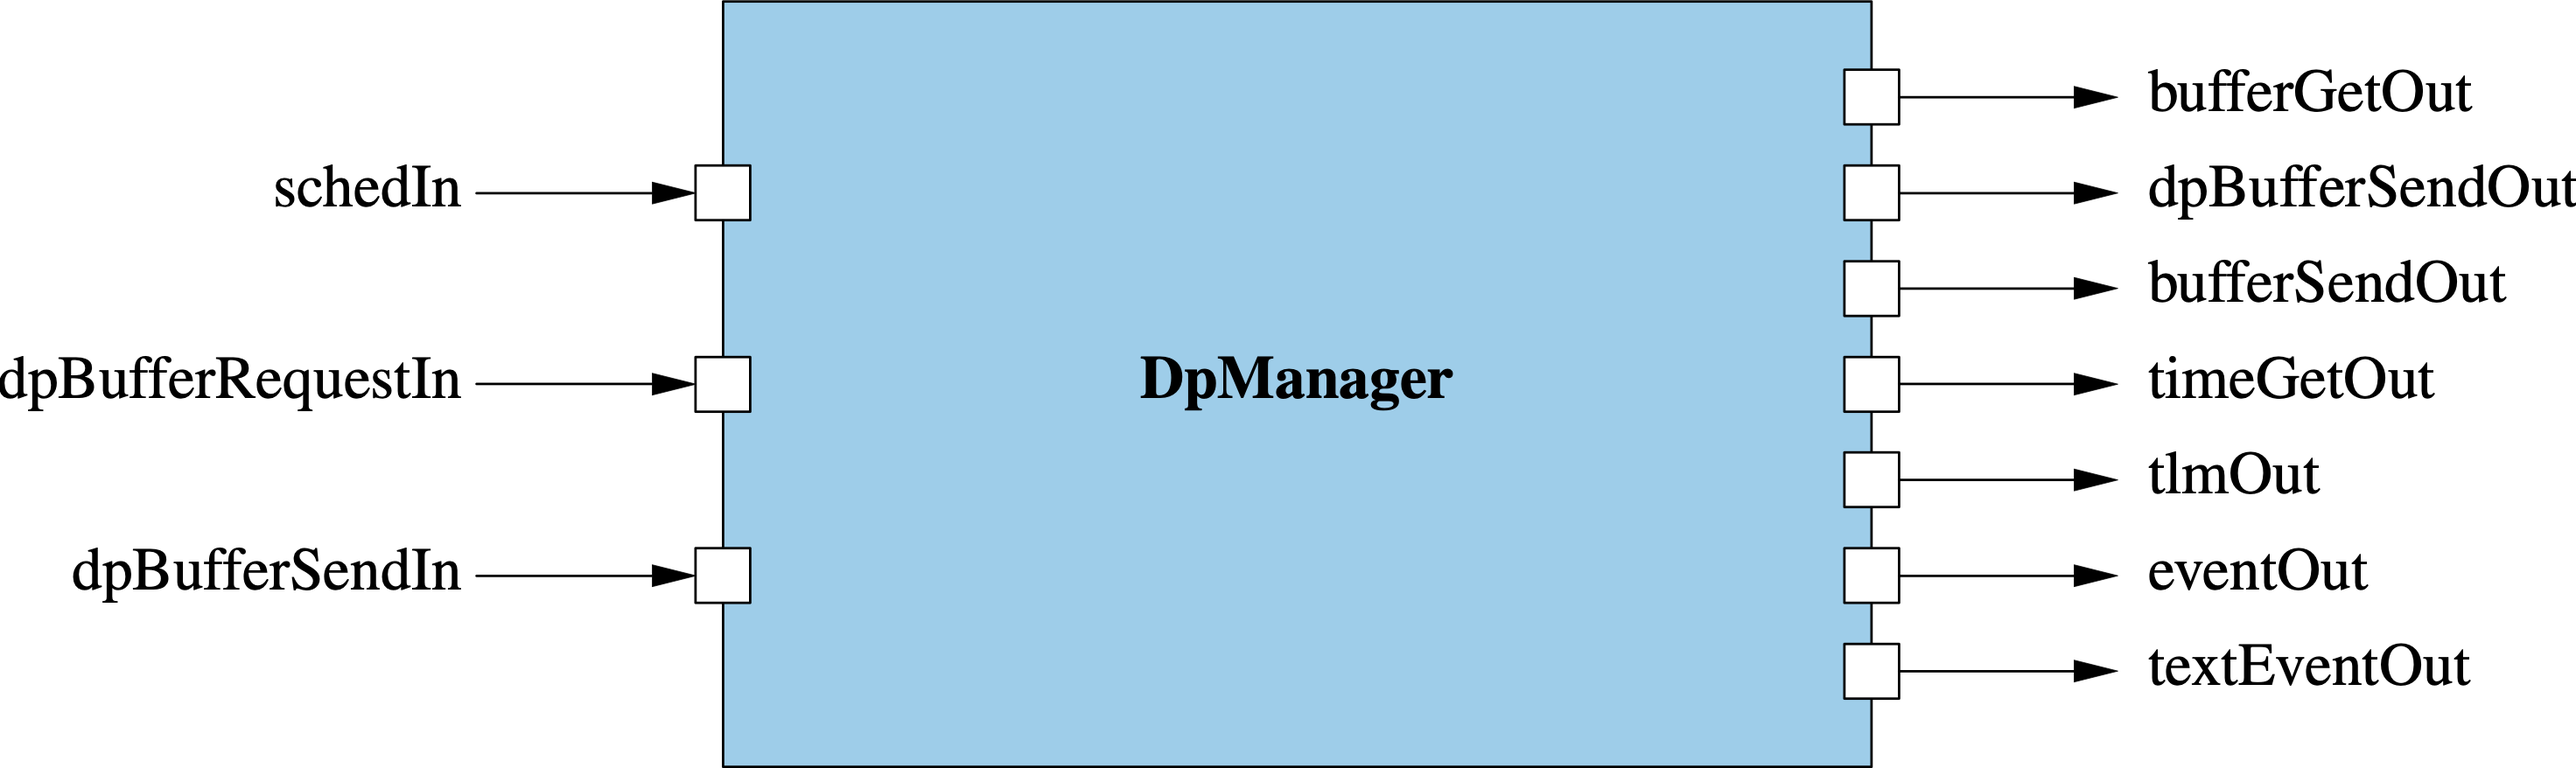
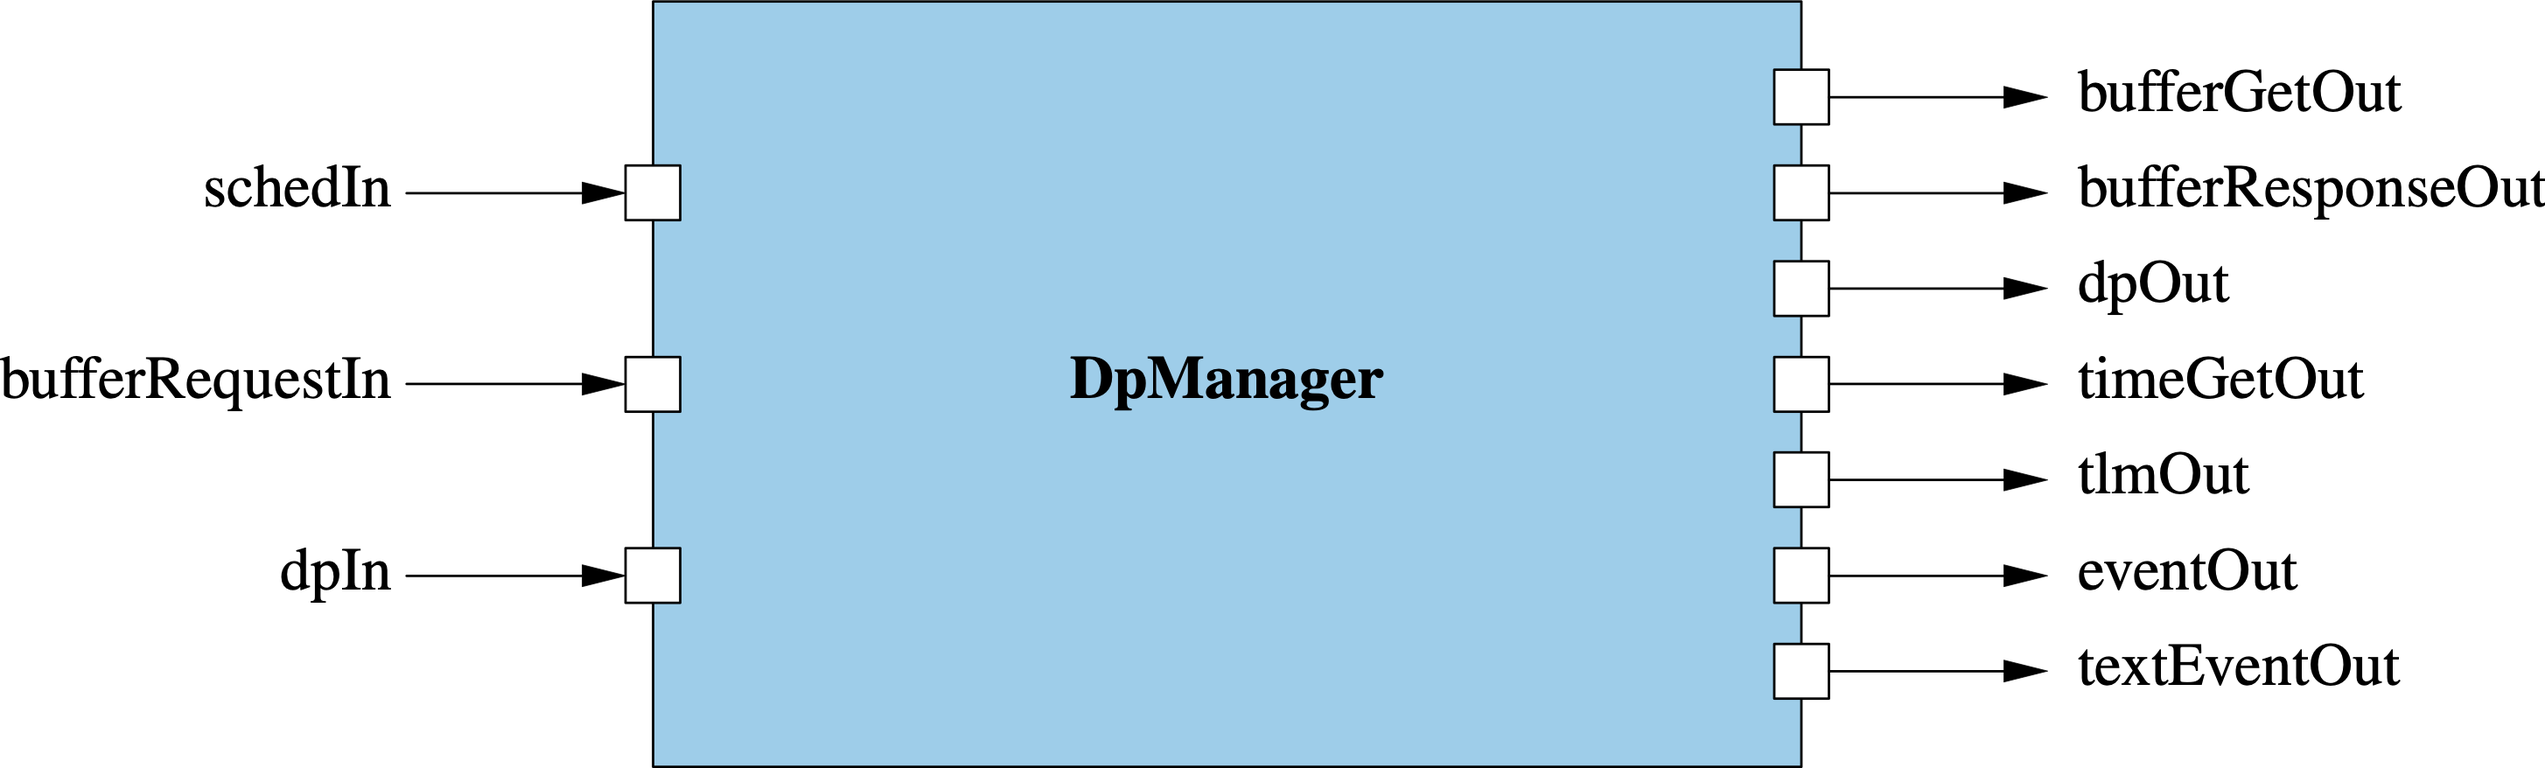
Revise DpManager model and SDD

diff --git a/Svc/DpManager/docs/sdd.md b/Svc/DpManager/docs/sdd.md
@@ -43,7 +43,7 @@ The diagram below shows the `DpManager` component.
 | `async input` | `schedIn` | `Svc.Sched` | Schedule in port |
 | `async input` | `bufferRequestIn` | `Fw.DpBufferRequest` | Port for receiving buffer requests from a client component |
 | `output` | `bufferGetOut` | `Fw.BufferGet` | Port for getting buffers from a Buffer Manager |
-| `output` | `requestedBufferOut` | `Fw.DpBufferSend` | Port for sending requested buffers to a client component |
+| `output` | `bufferResponseOut` | `Fw.DpBufferSend` | Port for sending requested buffers to a client component |
 | `async input` | `dpIn` | `Fw.DpBufferSend` | Port for receiving filled data product buffers from a client component |
 | `output` | `dpOut` | `Fw.BufferSend` | Port for sending filled data product buffers to a downstream component |
 | `time get` | `timeGetOut` | `Fw.Time` | Time get port |
